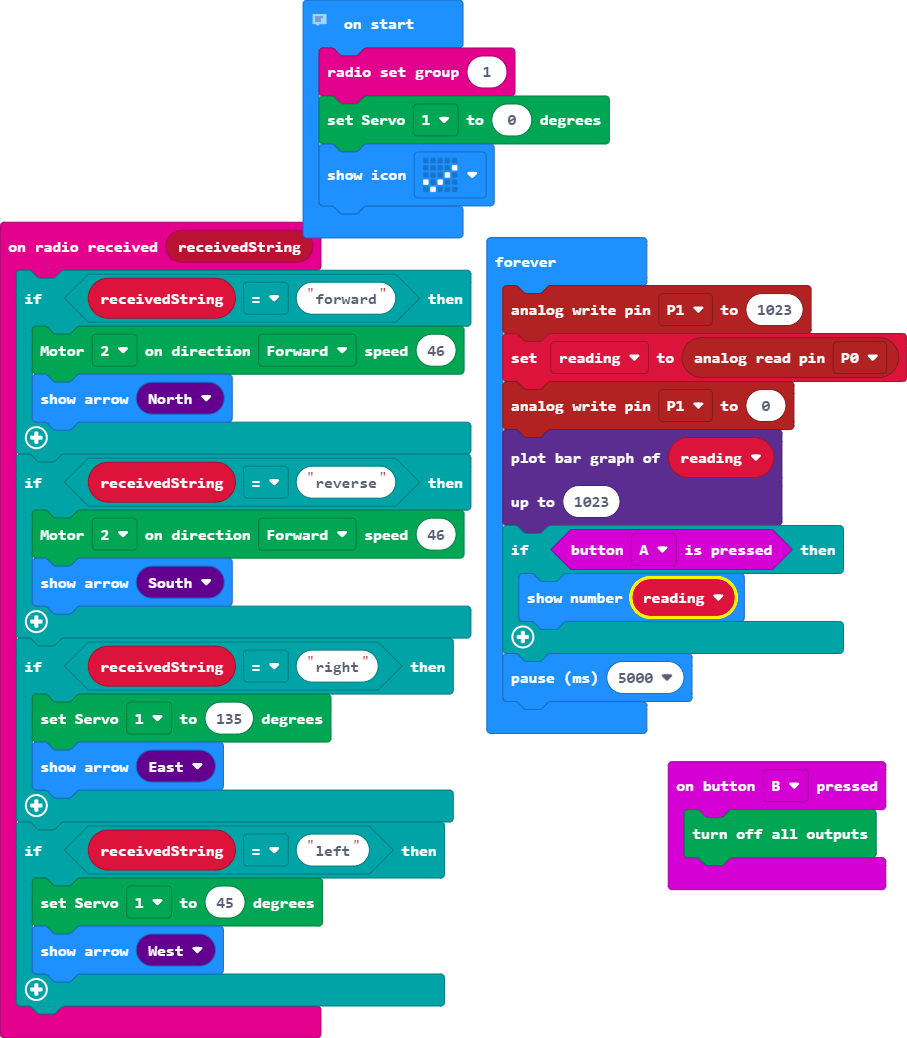
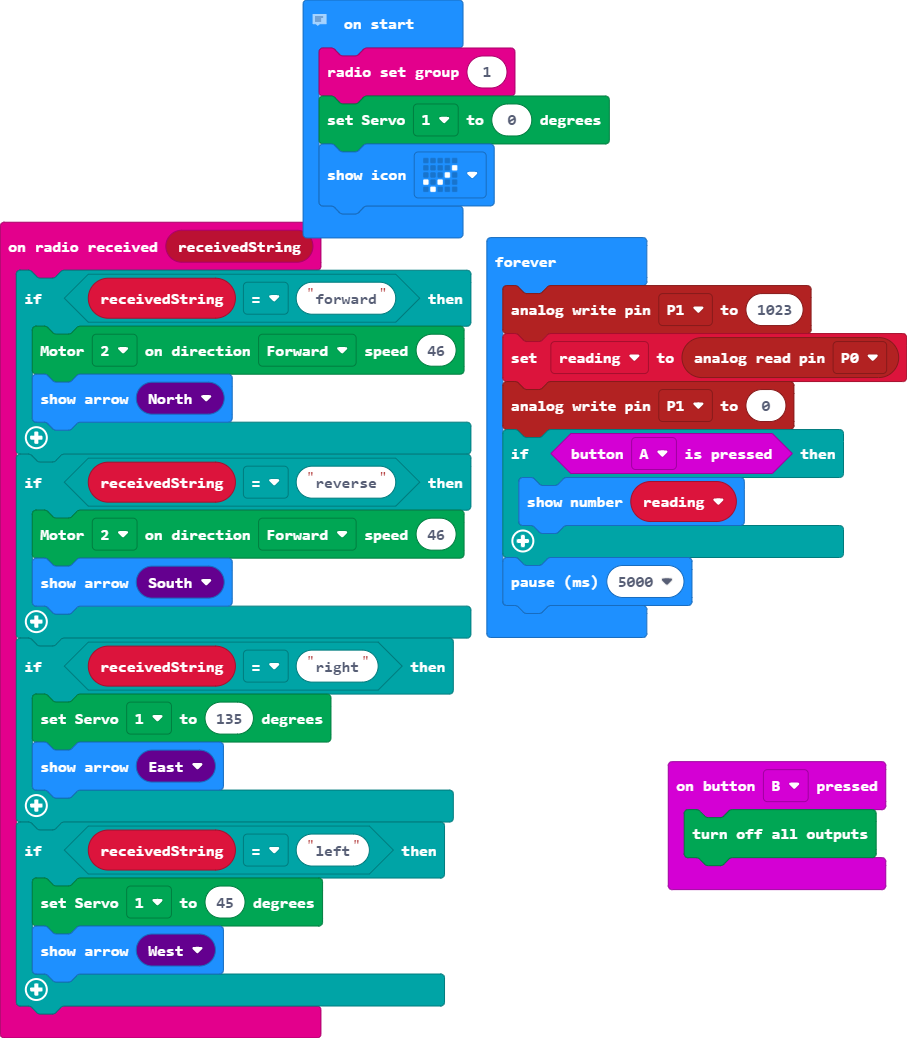
Update main.blocks, main.ts

Changed region(s): [[0.5248, 0.4008, 0.957, 0.7091]]

diff --git a/main.ts b/main.ts
@@ -28,10 +28,6 @@ basic.forever(function () {
     pins.analogWritePin(AnalogPin.P1, 1023)
     reading = pins.analogReadPin(AnalogPin.P0)
     pins.analogWritePin(AnalogPin.P1, 0)
-    led.plotBarGraph(
-    reading,
-    1023
-    )
     if (input.buttonIsPressed(Button.A)) {
         basic.showNumber(reading)
     }
